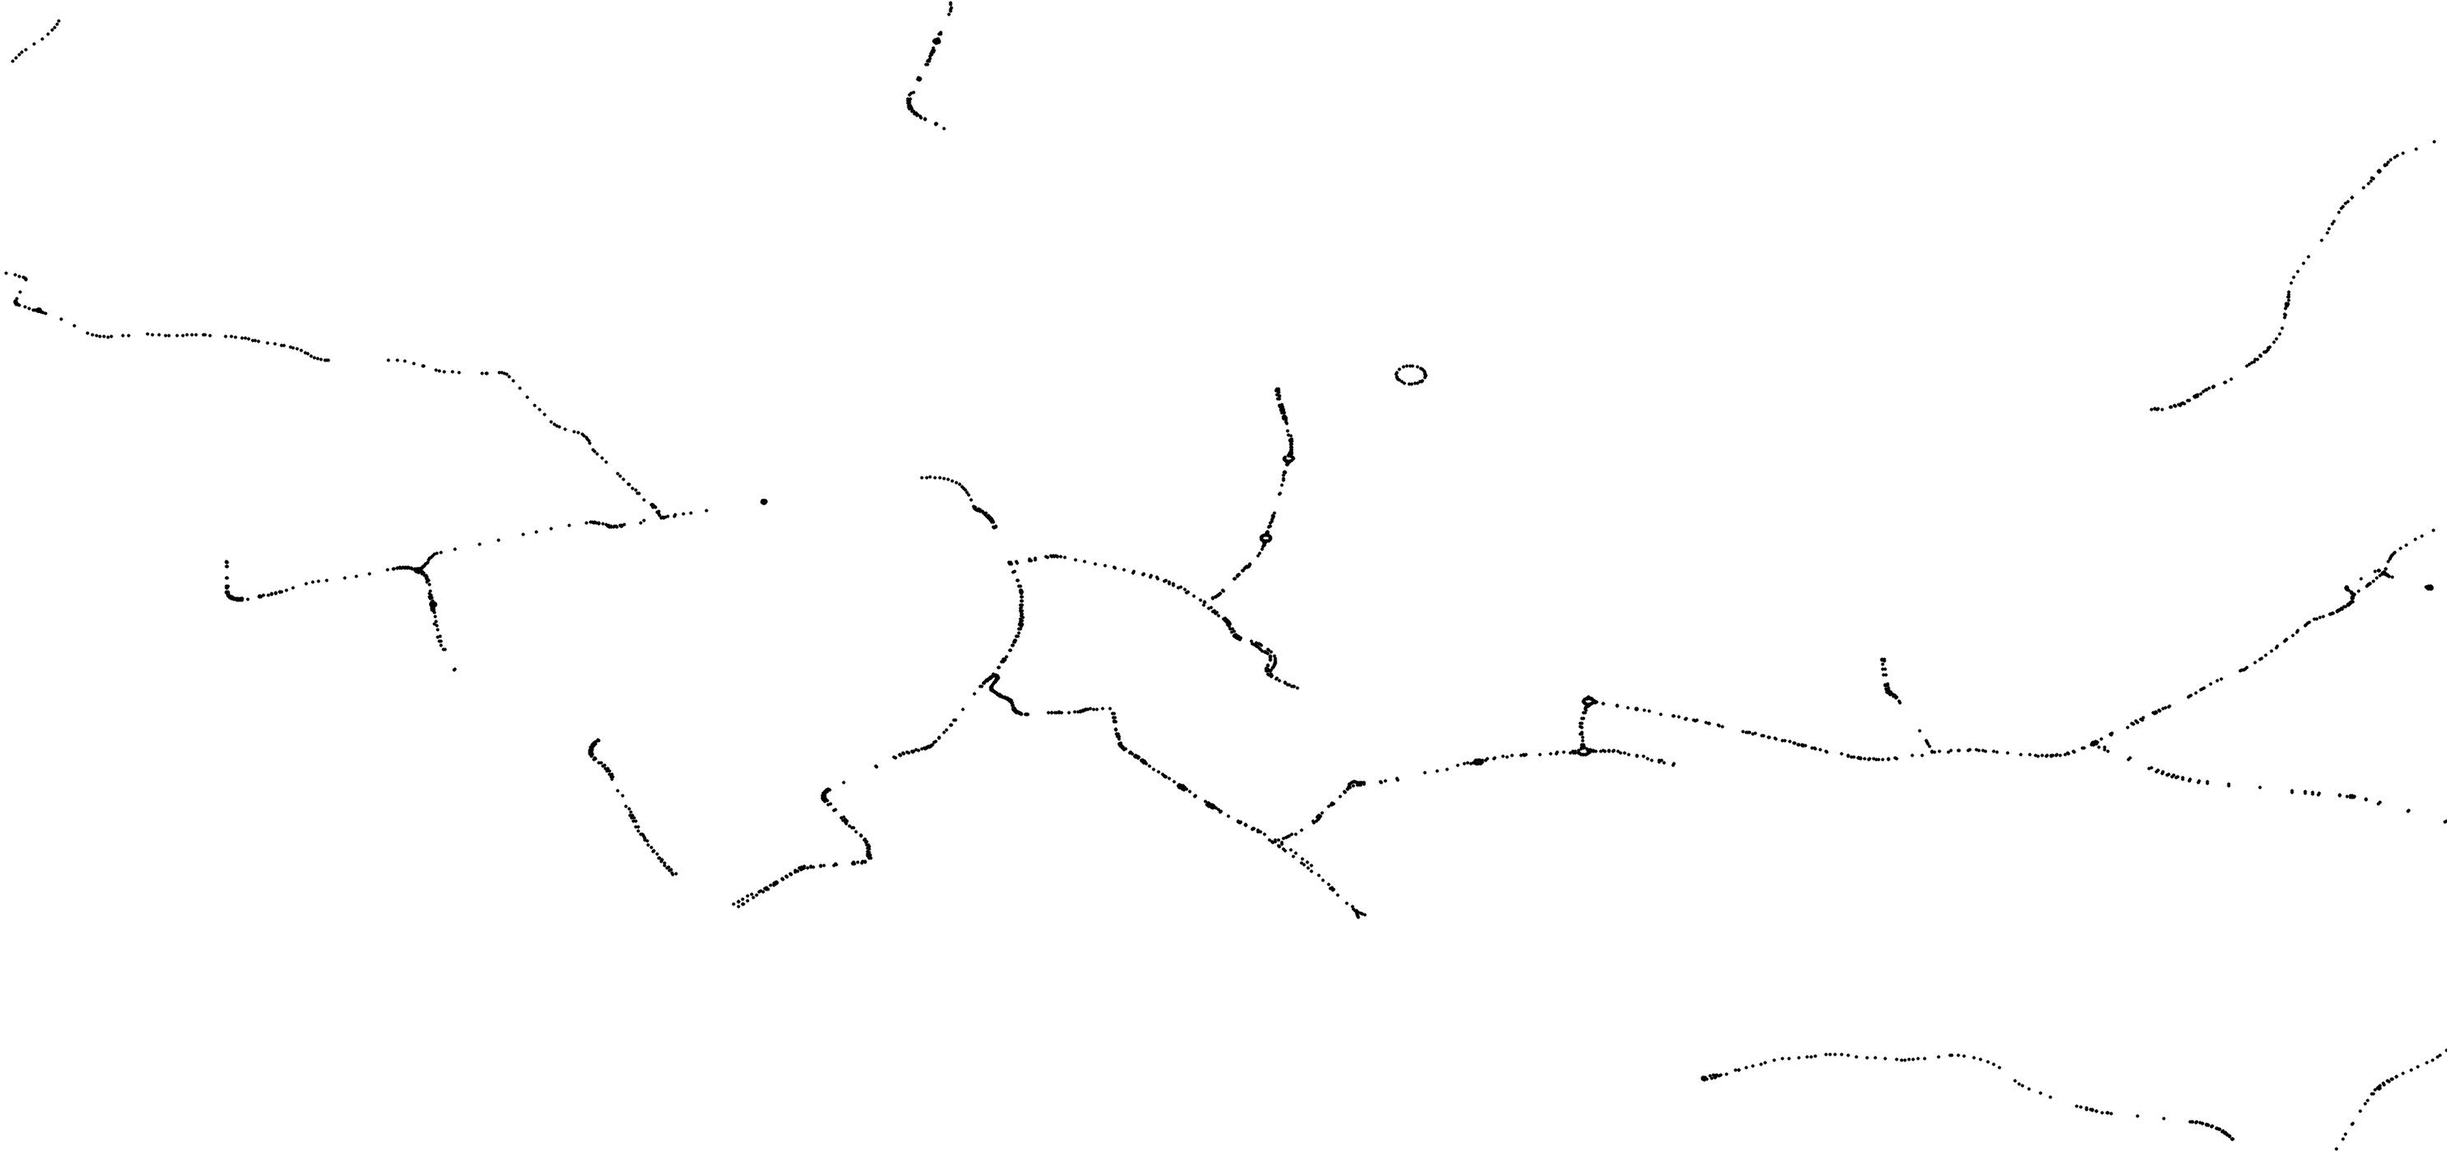
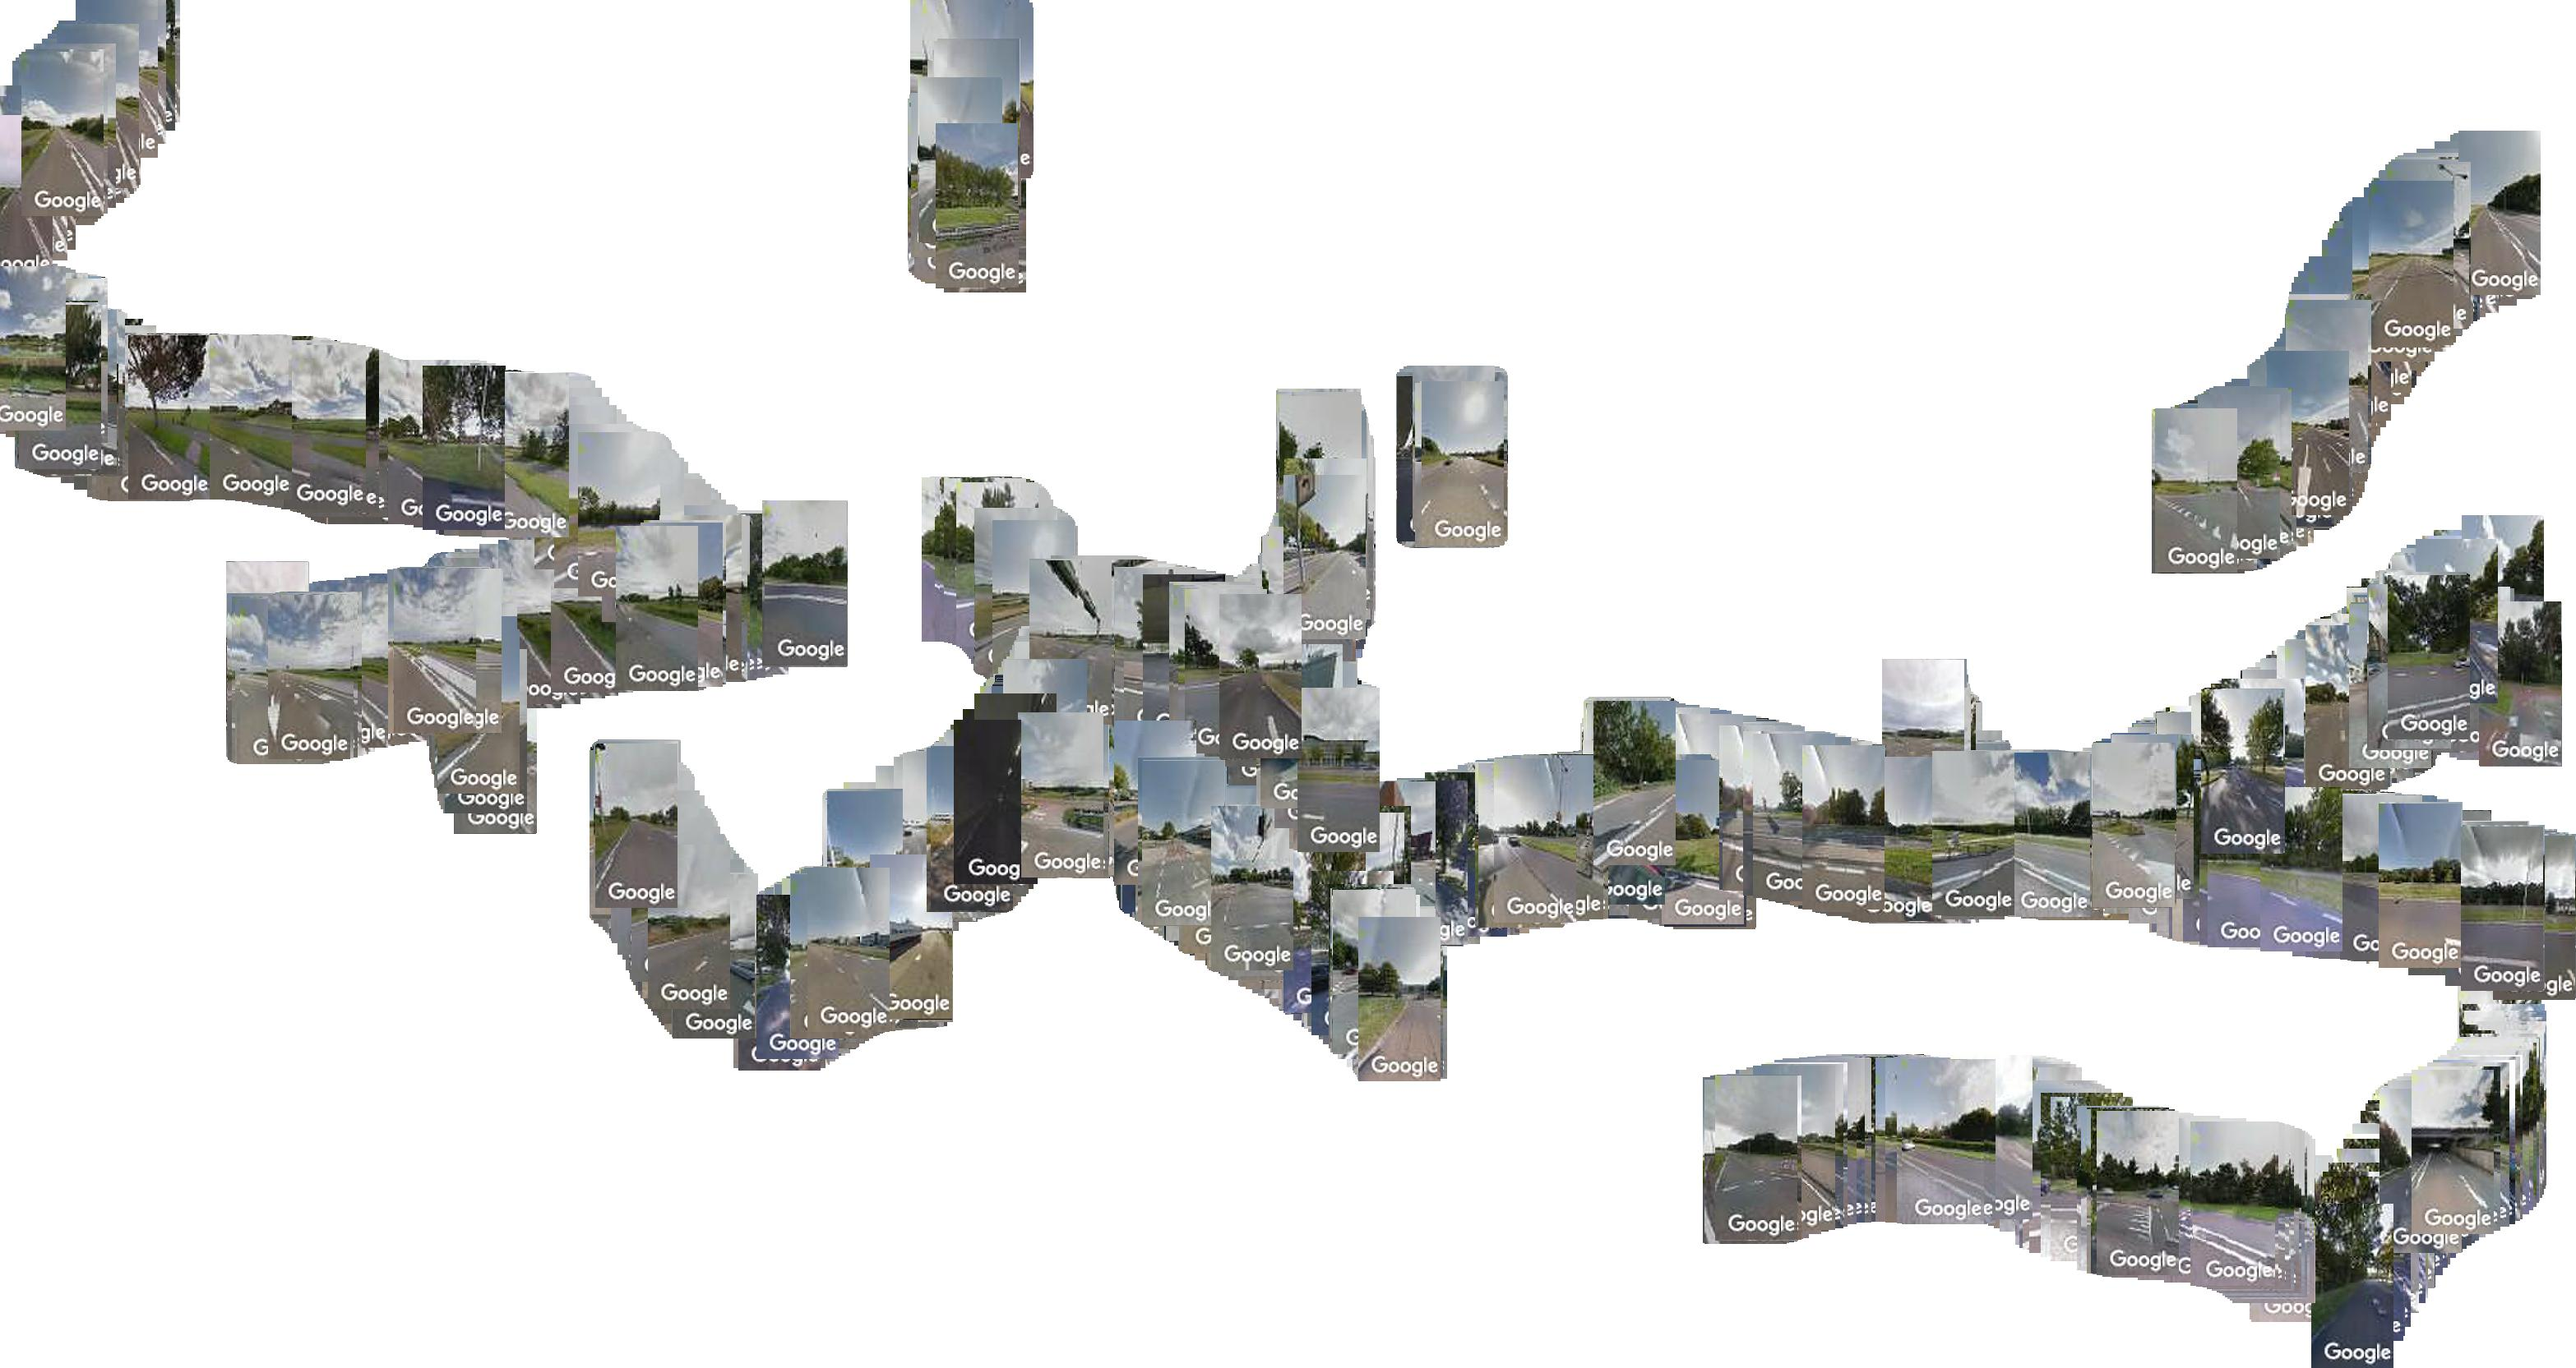
genertate yo

diff --git a/final/image_download_transformer.js b/final/image_download_transformer.js
@@ -25,27 +25,38 @@ encoder.prototype._transform = function _transform(streamobj, encoding, callback
         var options = {
             host: "maps.googleapis.com",
             port: 443,
-            path: '/maps/api/streetview?size=50x100&location=' + obj.lon + ',' + obj.lat + '&heading=' + '150' + '&pitch=-10.0&key=AIzaSyDi_lcmV9GQWGgPrqLQS31hmjpNATGhets',
+            path: '/maps/api/streetview?size=50x100&location=' + obj.lat + ',' + obj.lon + '&heading=' + '150' + '&pitch=-10.0&key=AIzaSyDi_lcmV9GQWGgPrqLQS31hmjpNATGhets',
             method: 'GET'
         };
 
         console.log(options.path);
 
-        https.get(options, function (res) {
-            var imagedata = new Buffer(0);
+        var imageName = './images/image' + obj.lat + '-' + obj.lon + '.jpg';
+        try {
+            fs.accessSync(imageName, fs.F_OK);
+            var cachedFile = fs.readFileSync(imageName);
+            obj.img = cachedFile.toString('base64');
+            console.log('image\n', obj.img, '\n\n');
+            self.push(JSON.stringify(obj));
+            callback();
+        } catch (e) {
+            https.get(options, function (res) {
+                var imagedata = new Buffer(0);
 
-            res.on('data', function (chunk) {
-                imagedata = Buffer.concat([imagedata, chunk]);
-            });
+                res.on('data', function (chunk) {
+                    imagedata = Buffer.concat([imagedata, chunk]);
+                });
 
-            res.on('end', function () {
-                obj.img = imagedata.toString("base64");
-                self.push(JSON.stringify(obj));
-                callback();
+                res.on('end', function () {
+                    fs.writeFileSync(imageName, imagedata);
+                    obj.img = imagedata.toString("base64");
+                    self.push(JSON.stringify(obj));
+                    callback();
+                });
+            }).on('error', function (e) {
+                console.error(e);
             });
-        }).on('error', function (e) {
-            console.error(e);
-        });
+        }
 
     } catch (err) {
         return callback(err);

diff --git a/final/pixel_transformer.js b/final/pixel_transformer.js
@@ -2,6 +2,7 @@ var Transform = require('stream').Transform;
 var inherits = require('util').inherits;
 
 var gm = require('gm');
+var fs = require('fs');
 
 var canvas;
 
@@ -13,14 +14,14 @@ function encoder(options) {
 
     if (!options) options = {};
 
-    console.log('options: ', options)
+    console.log('options: ', options);
 
     var h = Math.round((options.bbox.s - options.bbox.n) * options.scale);
     var w = Math.round((options.bbox.e - options.bbox.w) * options.scale);
 
     console.log('hw', h,w);
 
-    canvas = gm(w, h, "#FFFFFF").stroke("#000000")
+    canvas = gm(w, h, "#FFFFFF").stroke("#000000");
 
     Transform.call(this, options);
 }
@@ -29,12 +30,16 @@ inherits(encoder, Transform);
 
 encoder.prototype._transform = function _transform(json, encoding, callback) {
 
-    console.log(json)
-
     var obj = JSON.parse(json);
 
+    var file = new Buffer(obj.img, 'base64');
+    var lompeZooi = './lomp/' + obj.lat + '-' + obj.lon + '.jpg';
+
+    fs.writeFileSync(lompeZooi, file);
+
     if(obj.x && obj.y){
-        canvas.drawCircle(obj.x, obj.y, obj.x+1, obj.y +1);
+        canvas.in('-page', '+' + obj.x + '+' + obj.y).in(lompeZooi);
+        canvas.mosaic(); // Merges the images as a matrix
     }
 
     callback();
@@ -42,8 +47,7 @@ encoder.prototype._transform = function _transform(json, encoding, callback) {
 
 
 encoder.prototype._flush = function (cb) {
-    console.log('JOLO')
-    var fs = require('fs');
+    console.log('JOLO');
 
     canvas
         .write(__dirname + '/jolo.jpg', function (error) {

diff --git a/final/xml_transformer.js b/final/xml_transformer.js
@@ -24,7 +24,7 @@ encoder.prototype._transform = function _transform(line, encoding, callback) {
             id : match[1],
             lat : match[2],
             lon : match[3]
-        }
+        };
         this.push(JSON.stringify(obj));
     }
 
